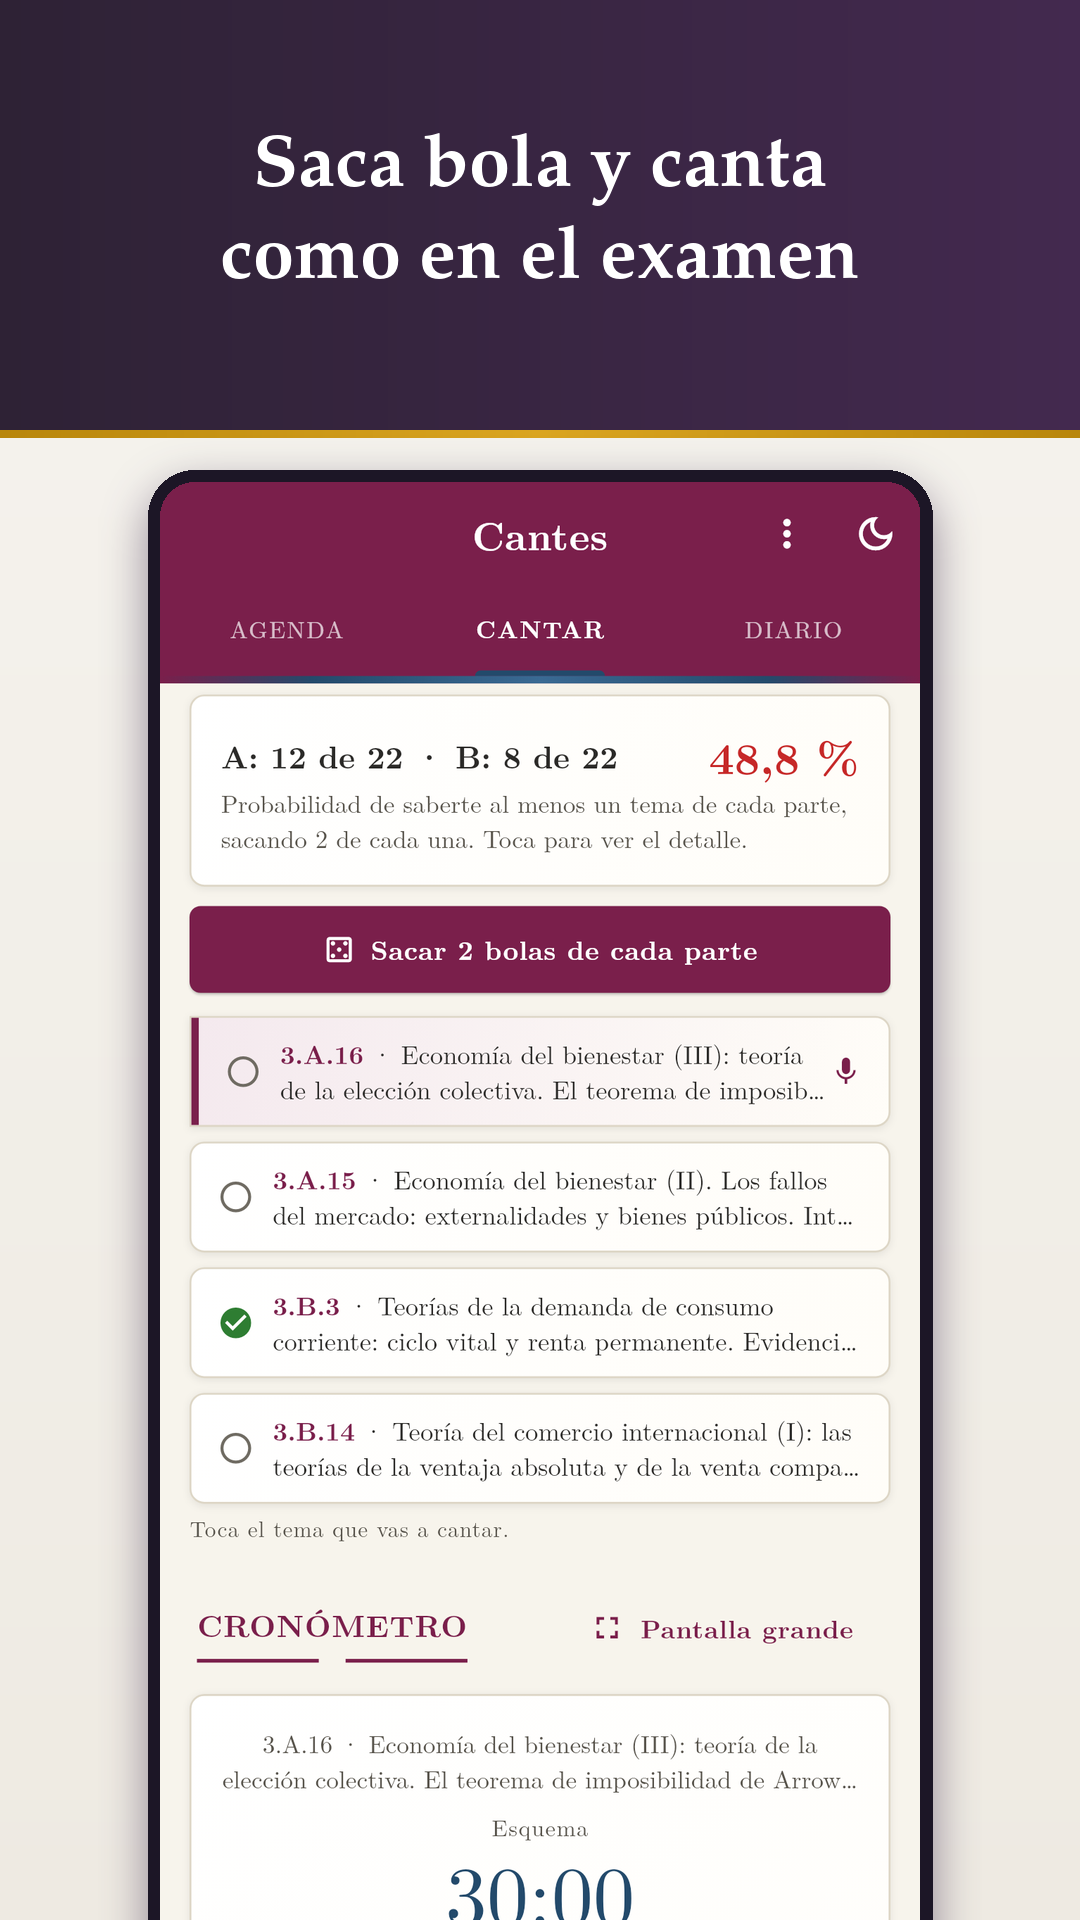
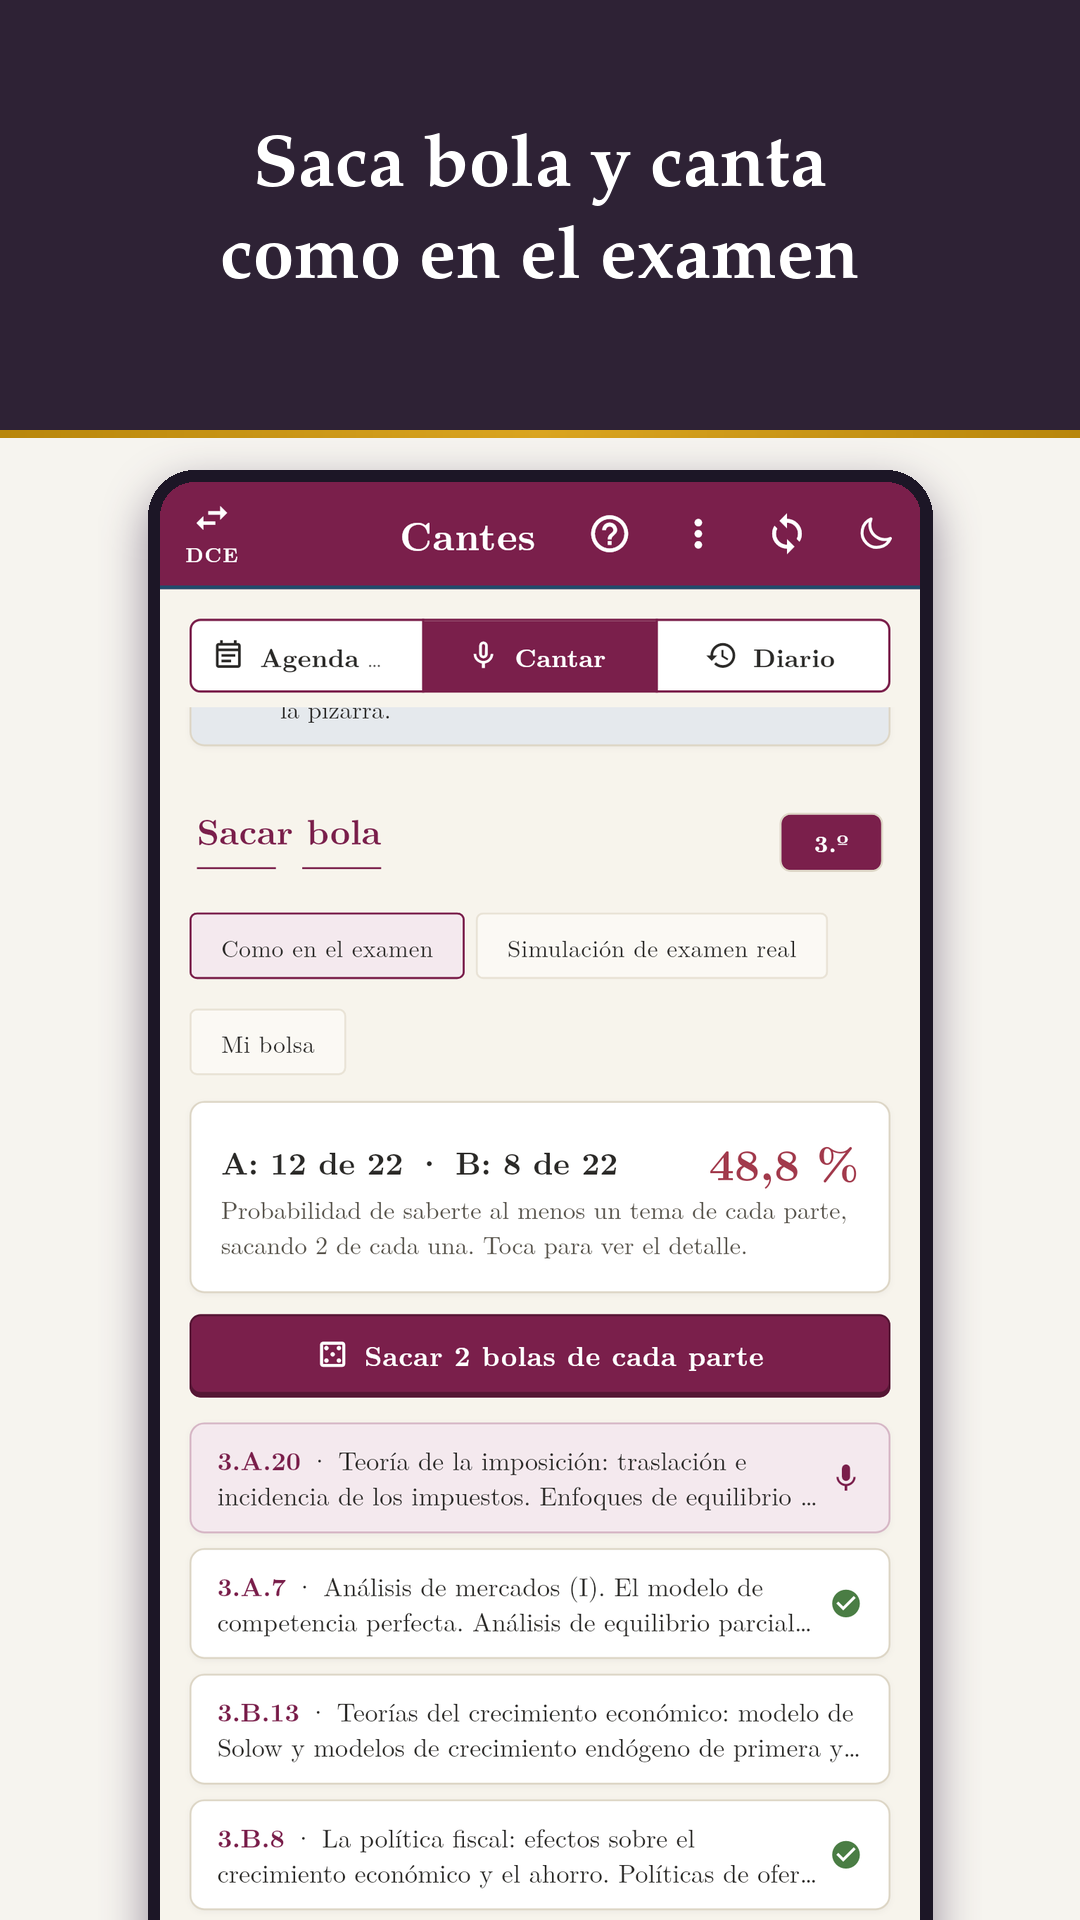
Ficha de Play al día: capturas de móvil con la app 1.20.4 y sin degradados, de tableta sacadas de la app a 1920 × 1080 (TABLETA en los tests de capturas, con el raíl lateral) y play.py sube AAB, vídeo y gráficos en una sola edición
Claude-Session: https://claude.ai/code/session_01J5yryzPZ2tt4xCzzmCNpSN

Changed region(s): [[0.1222, 0.25, 0.8556, 1.0], [0.9167, 0.0, 1.0, 0.25]]

diff --git a/app/tool/capturas_dce_test.dart b/app/tool/capturas_dce_test.dart
@@ -50,7 +50,7 @@ import 'package:tcee_app/widgets/comunes.dart';
 import 'package:tcee_app/features/temario/tema_page.dart';
 import 'package:tcee_app/theme/app_theme.dart';
 
-import 'demo_comun.dart' show cajaAppSinPrimerosPasos, versionApp;
+import 'demo_comun.dart' show cajaAppSinPrimerosPasos, densidadCaptura, rutaCaptura, tamCaptura, versionApp;
 
 Map<String, dynamic> _json(String ruta) => jsonDecode(File(ruta).readAsStringSync()) as Map<String, dynamic>;
 
@@ -79,8 +79,8 @@ void main() {
 
   /// Móvil de 1080 × 2340 a 2,625 de densidad, como en capturas_test.dart.
   void movil(WidgetTester tester) {
-    tester.view.physicalSize = const Size(1080, 2340);
-    tester.view.devicePixelRatio = 2.625;
+    tester.view.physicalSize = tamCaptura;
+    tester.view.devicePixelRatio = densidadCaptura;
     addTearDown(tester.view.reset);
     debugDisableShadows = false;
   }
@@ -90,7 +90,7 @@ void main() {
 
   Future<void> captura(WidgetTester tester, String nombre) async {
     await tester.pumpAndSettle();
-    await expectLater(find.byType(MaterialApp), matchesGoldenFile('../promo/capturas/$nombre.png'));
+    await expectLater(find.byType(MaterialApp), matchesGoldenFile(rutaCaptura(nombre)));
   }
 
   Future<List<Override>> base(Oposicion o, Temario temario, UsuarioRepo usuario, PlanRepo plan, PreparadorRepo preparador) async {
@@ -261,7 +261,7 @@ void main() {
 
     Future<void> pestana(String nombre) async {
       for (var i = 0; i < 2; i++) {
-        await tocar(find.descendant(of: find.byType(NavigationBar), matching: find.text(nombre)));
+        await tocar(find.descendant(of: find.byWidgetPredicate((w) => w is NavigationBar || w is NavigationRail), matching: find.text(nombre)));
       }
     }
 
@@ -288,7 +288,7 @@ void main() {
     await bajar(350);
     await tocar(parte);
     await captura(tester, 'dce-temario');
-    Navigator.of(tester.element(find.byType(NavigationBar))).push(MaterialPageRoute(builder: (_) => TemaPage(tema: temario.tema('3.A.9')!)));
+    Navigator.of(tester.element(find.byType(Scaffold).first)).push(MaterialPageRoute(builder: (_) => TemaPage(tema: temario.tema('3.A.9')!)));
     await captura(tester, 'dce-tema');
     Navigator.of(tester.element(find.byType(TemaPage))).pop();
     await tester.pumpAndSettle();
@@ -306,7 +306,7 @@ void main() {
     await captura(tester, 'dce-cantar');
 
     // ------------------------------------------- Clase cancelada: sustituto
-    Navigator.of(tester.element(find.byType(NavigationBar))).push(MaterialPageRoute(builder: (_) => const CantePage(id: 'dc')));
+    Navigator.of(tester.element(find.byType(Scaffold).first)).push(MaterialPageRoute(builder: (_) => const CantePage(id: 'dc')));
     await tester.pumpAndSettle();
     await tocar(find.text('Pedir una clase suelta'));
     await captura(tester, 'dce-buscar-preparador');

diff --git a/app/tool/demo_comun.dart b/app/tool/demo_comun.dart
@@ -58,6 +58,13 @@ import 'package:tcee_app/data/repos/usuario_repo.dart';
 /// Lee un JSON de la web (rutas relativas a app/).
 Map<String, dynamic> leerJson(String ruta) => jsonDecode(File(ruta).readAsStringSync()) as Map<String, dynamic>;
 
+/// Capturas de tableta para la ficha de Google Play (`flutter test … --dart-define=TABLETA=true`):
+/// 1920 × 1080 a 1,5 de densidad (1280 × 720 puntos), en promo/capturas-tableta/.
+const capturasTableta = bool.fromEnvironment('TABLETA');
+const tamCaptura = capturasTableta ? Size(1920, 1080) : Size(1080, 2340);
+const densidadCaptura = capturasTableta ? 1.5 : 2.625;
+String rutaCaptura(String nombre) => '../promo/${capturasTableta ? 'capturas-tableta' : 'capturas'}/$nombre.png';
+
 /// Versión de pubspec.yaml, para el pie de la pantalla Más.
 String versionApp() => RegExp(r'^version:\s*([\d.]+)', multiLine: true).firstMatch(File('pubspec.yaml').readAsStringSync())!.group(1)!;
 
@@ -516,8 +523,8 @@ class Recorrido {
   /// Pone la vista de un móvil de 1080 × 2340 a 2,625 de densidad (411 × 891 puntos).
   static void vistaMovil(WidgetTester tester) {
     Arranque.omitir = true;
-    tester.view.physicalSize = const Size(1080, 2340);
-    tester.view.devicePixelRatio = 2.625;
+    tester.view.physicalSize = tamCaptura;
+    tester.view.devicePixelRatio = densidadCaptura;
     addTearDown(tester.view.reset);
     // En los tests las sombras se pintan como bloques negros si no se activan.
     debugDisableShadows = false;
@@ -556,8 +563,10 @@ class Recorrido {
   Future<void> pestana(String nombre) async {
     // La barra inferior siempre está a la vista: sin `ensureVisible`, que desde
     // la 1.20.x dejaba el toque fuera de la barra (26 oct. 2026).
+    // En pantallas anchas (tableta) las pestañas van en un raíl lateral.
+    final barra = find.byWidgetPredicate((w) => w is NavigationBar || w is NavigationRail);
     for (var i = 0; i < 2; i++) {
-      await tester.tap(find.descendant(of: find.byType(NavigationBar), matching: find.text(nombre)).first);
+      await tester.tap(find.descendant(of: barra, matching: find.text(nombre)).first);
       await tester.pumpAndSettle();
     }
   }

diff --git a/app/tool/capturas_test.dart b/app/tool/capturas_test.dart
@@ -76,7 +76,7 @@ void main() {
     final excepciones = <Object>[];
     Future<void> captura(String nombre) async {
       await tester.pumpAndSettle();
-      await expectLater(find.byType(MaterialApp), matchesGoldenFile('../promo/capturas/$nombre.png'));
+      await expectLater(find.byType(MaterialApp), matchesGoldenFile(rutaCaptura(nombre)));
       // Si una pantalla ha fallado (p. ej. un desbordamiento), que se sepa en cuál.
       final e = tester.takeException();
       if (e != null) {
@@ -208,7 +208,7 @@ void main() {
     await captura('pizarra');
     Navigator.of(tester.element(find.byType(PizarraPage))).pop();
     await tester.pumpAndSettle();
-    tester.view.physicalSize = const Size(1080, 2340);
+    tester.view.physicalSize = tamCaptura;
     await tester.pumpAndSettle();
     // Los avisos: lo que pide la app al abrirla por primera vez.
     showModalBottomSheet<void>(context: tester.element(find.byType(Scaffold).first), isScrollControlled: true, showDragHandle: true, builder: (_) => const HojaPermisos());

diff --git a/scripts/play.py b/scripts/play.py
@@ -3,10 +3,11 @@
 
     python3 scripts/play.py estado                          # qué versión hay en cada pista
     python3 scripts/play.py subir app.aab [--pistas alpha,production] [--notas "…" | --notas-archivo f.txt]
+                                [--video-clave promo-app] [--graficos app/play-store/graficos]
     python3 scripts/play.py promocionar [--de alpha] [--a production] [--fraccion 0.2]
     python3 scripts/play.py despliegue 0.5                  # producción escalonada: sube el porcentaje
     python3 scripts/play.py despliegue completar | detener | reanudar
-    python3 scripts/play.py ficha [--video-clave promo-app | --video URL]
+    python3 scripts/play.py ficha [--video-clave promo-app | --video URL] [--graficos app/play-store/graficos]
     python3 scripts/play.py resenas [--dias 30]
     python3 scripts/play.py responder ID_RESEÑA "texto"
 
@@ -119,6 +120,31 @@ class Edicion:
         return self.api.pedir('POST', f'{SUBIDA}/edits/{self.id}/bundles?uploadType=media', aab.read_bytes(),
                               'application/octet-stream', espera=900)['versionCode']
 
+    def poner_video(self, video):
+        url = f'{self.url}/listings/{IDIOMA}'
+        antes = self.api.pedir('GET', url).get('video')
+        self.api.pedir('PATCH', url, {'video': video})
+        print(f'Vídeo de la ficha: {antes or "ninguno"} → {video}')
+
+    def poner_graficos(self, carpeta):
+        """Sustituye icono, gráfico destacado y capturas por los de la carpeta
+        (generar-graficos-play.py): capturas/ para el teléfono y tablet/ para las
+        tabletas de 7 y 10 pulgadas."""
+        carpeta = Path(carpeta)
+        tipos = {'icon': [carpeta / 'icono-512.png'], 'featureGraphic': [carpeta / 'grafico-destacado.png'],
+                 'phoneScreenshots': sorted((carpeta / 'capturas').glob('*.png')),
+                 'sevenInchScreenshots': sorted((carpeta / 'tablet').glob('*.png')),
+                 'tenInchScreenshots': sorted((carpeta / 'tablet').glob('*.png'))}
+        for tipo, archivos in tipos.items():
+            archivos = [f for f in archivos if f.is_file()]
+            if not archivos:
+                continue
+            self.api.pedir('DELETE', f'{self.url}/listings/{IDIOMA}/{tipo}')
+            for f in archivos:
+                self.api.pedir('POST', f'{SUBIDA}/edits/{self.id}/listings/{IDIOMA}/{tipo}?uploadType=media',
+                               f.read_bytes(), 'image/png')
+            print(f'{tipo}: {len(archivos)} imagen(es)')
+
     def confirmar(self, enviar=False):
         """Con enviar, a revisión (sin cancelar nunca lo que ya esté en ella);
         sin enviar, Google valida la edición y se descarta: no cambia nada."""
@@ -132,6 +158,14 @@ class Edicion:
 
 
 # ---------------------------------------------------------------- Órdenes
+
+def _video(a):
+    if getattr(a, 'video_clave', None):
+        registro = json.loads((Path(__file__).resolve().parent.parent / 'videos.json').read_text())
+        v = registro['videos'].get(a.video_clave) or sys.exit(f'No está la clave {a.video_clave} en videos.json')
+        return f'https://www.youtube.com/watch?v={v["youtube"]}'
+    return getattr(a, 'video', None)
+
 
 def _vigente(pista):
     """La versión que manda en una pista: la última no borrador."""
@@ -177,6 +211,10 @@ def subir(a):
     pistas = a.pistas.split(',')
     for pista in pistas:
         e.poner_pista(pista, [version])
+    if video := _video(a):
+        e.poner_video(video)
+    if a.graficos:
+        e.poner_graficos(a.graficos)
     e.confirmar(a.enviar)
     print(f'{version["name"]} en {" y ".join(pistas)}' + (' como borrador.' if a.borrador else _aviso(a.enviar)))
 
@@ -221,20 +259,18 @@ def despliegue(a):
 
 def ficha(a):
     e = Edicion(Api())
-    url = f'{e.url}/listings/{IDIOMA}'
-    actual = e.api.pedir('GET', url)
-    video = a.video
-    if a.video_clave:
-        registro = json.loads((Path(__file__).resolve().parent.parent / 'videos.json').read_text())
-        v = registro['videos'].get(a.video_clave) or sys.exit(f'No está la clave {a.video_clave} en videos.json')
-        video = f'https://www.youtube.com/watch?v={v["youtube"]}'
-    if not video:
+    video = _video(a)
+    if not video and not a.graficos:
+        actual = e.api.pedir('GET', f'{e.url}/listings/{IDIOMA}')
         e.descartar()
         print(f'Título: {actual.get("title")}\nBreve: {actual.get("shortDescription")}\nVídeo: {actual.get("video") or "ninguno"}')
         return
-    e.api.pedir('PATCH', url, {'video': video})
+    if video:
+        e.poner_video(video)
+    if a.graficos:
+        e.poner_graficos(a.graficos)
     e.confirmar(a.enviar)
-    print(f'Vídeo de la ficha: {actual.get("video") or "ninguno"} → {video}' + _aviso(a.enviar))
+    print('Ficha' + _aviso(a.enviar))
 
 
 def resenas(a):
@@ -267,6 +303,8 @@ def main():
     o.add_argument('--notas')
     o.add_argument('--notas-archivo')
     o.add_argument('--borrador', action='store_true')
+    o.add_argument('--video-clave', help='vídeo de la ficha: clave de videos.json (p. ej. promo-app)')
+    o.add_argument('--graficos', help='carpeta de gráficos de la ficha (app/play-store/graficos)')
     o.add_argument('--enviar', action='store_true', help='mandar a revisión ya (solo con permiso de Víctor)')
     o = s.add_parser('promocionar')
     o.add_argument('--enviar', action='store_true', help='mandar a revisión ya (solo con permiso de Víctor)')
@@ -279,6 +317,7 @@ def main():
     o = s.add_parser('ficha')
     o.add_argument('--video', help='URL de YouTube')
     o.add_argument('--video-clave', help='clave de videos.json (p. ej. promo-app)')
+    o.add_argument('--graficos', help='carpeta de gráficos de la ficha (app/play-store/graficos)')
     o.add_argument('--enviar', action='store_true', help='mandar a revisión ya (solo con permiso de Víctor)')
     s.add_parser('resenas').add_argument('--dias', type=int, default=30)
     o = s.add_parser('responder')

diff --git a/scripts/generar-graficos-play.py b/scripts/generar-graficos-play.py
@@ -8,6 +8,11 @@ scripts/montar-video-app.py) y con su misma estética neutra:
     grafico-destacado.png    gráfico destacado (1024 × 500)
     capturas/01.png … 08.png capturas del teléfono (1080 × 1920, 9:16), con un
                              rótulo; mitad de TCEE y mitad de DCE
+    tablet/01.png … 08.png   las mismas pantallas en una tableta (1920 × 1080),
+                             tal cual: salen de app/promo/capturas-tableta/, que
+                             escriben los tests de capturas con TABLETA:
+                             cd app && flutter test tool/capturas_test.dart --update-goldens --dart-define=TABLETA=true
+                             (y lo mismo con tool/capturas_dce_test.dart)
 
     python3 scripts/generar-graficos-play.py
 
@@ -33,7 +38,7 @@ _spec.loader.exec_module(v)
 # (Play admite hasta ocho capturas de teléfono).
 CAPTURAS = [
     ('hoy', 'Cada día,\nlo que toca'),
-    ('dce-tema-web', 'Todo el temario,\ndentro de la app'),
+    ('dce-temario', 'Todo el temario,\ndentro de la app'),
     ('dce-cantar', 'Saca bola y canta\ncomo en el examen'),
     ('cronograma-revisar', 'Tu cronograma,\no el que ya tienes'),
     ('dce-probabilidades', '¿Qué probabilidad\nllevas?'),
@@ -44,8 +49,8 @@ CAPTURAS = [
 
 
 def fondo(ancho, alto):
-    f = v.degradado((ancho, alto), v.FONDO, v.FONDO_2, vertical=True).convert('RGB')
-    return f
+    # «Edición académica»: colores planos, sin degradados.
+    return Image.new('RGB', (ancho, alto), v.FONDO)
 
 
 def captura_play(nombre, rotulo, ruta):
@@ -54,7 +59,7 @@ def captura_play(nombre, rotulo, ruta):
     d = ImageDraw.Draw(img)
     # Banda superior berenjena con la línea dorada y el rótulo.
     banda = 430
-    img.paste(v.degradado((ancho, banda), v.TINTA, v.TINTA_CLARA), (0, 0))
+    d.rectangle((0, 0, ancho, banda), fill=v.TINTA)
     img.paste(v.linea_dorada(ancho, 8), (0, banda))
     tam = 74
     while max(v.serif(tam).getlength(l) for l in rotulo.split('\n')) > ancho - 120:
@@ -73,7 +78,7 @@ def captura_play(nombre, rotulo, ruta):
 
 def grafico_destacado(ruta):
     ancho, alto = 1024, 500
-    img = v.degradado((ancho, alto), v.TINTA_CLARA, v.TINTA).convert('RGB')
+    img = Image.new('RGB', (ancho, alto), v.TINTA)
     img.paste(v.linea_dorada(ancho, 6), (0, alto - 6))
     d = ImageDraw.Draw(img)
     ic = v.icono(150, sombra=True)
@@ -95,6 +100,13 @@ def main():
     grafico_destacado(os.path.join(SALIDA, 'grafico-destacado.png'))
     for i, (nombre, rotulo) in enumerate(CAPTURAS, 1):
         captura_play(nombre, rotulo, os.path.join(SALIDA, 'capturas', f'{i:02}.png'))
+    tableta = os.path.join(RAIZ, 'app', 'promo', 'capturas-tableta')
+    if os.path.isdir(tableta):
+        os.makedirs(os.path.join(SALIDA, 'tablet'), exist_ok=True)
+        for i, (nombre, _) in enumerate(CAPTURAS, 1):
+            Image.open(os.path.join(tableta, f'{nombre}.png')).convert('RGB').save(os.path.join(SALIDA, 'tablet', f'{i:02}.png'))
+    else:
+        print('Sin app/promo/capturas-tableta/: las de tableta se quedan como estaban.')
     print('Gráficos en', SALIDA)
 
 
